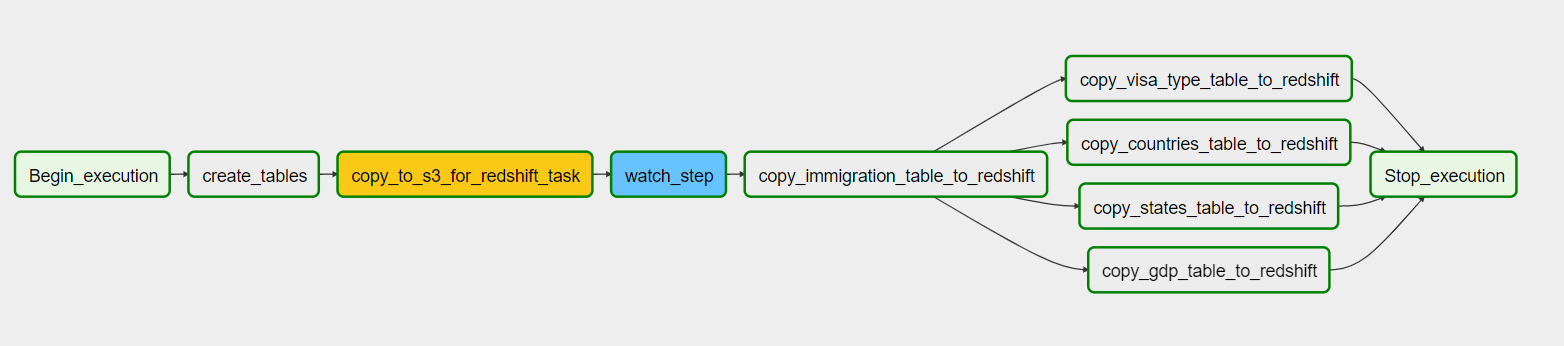
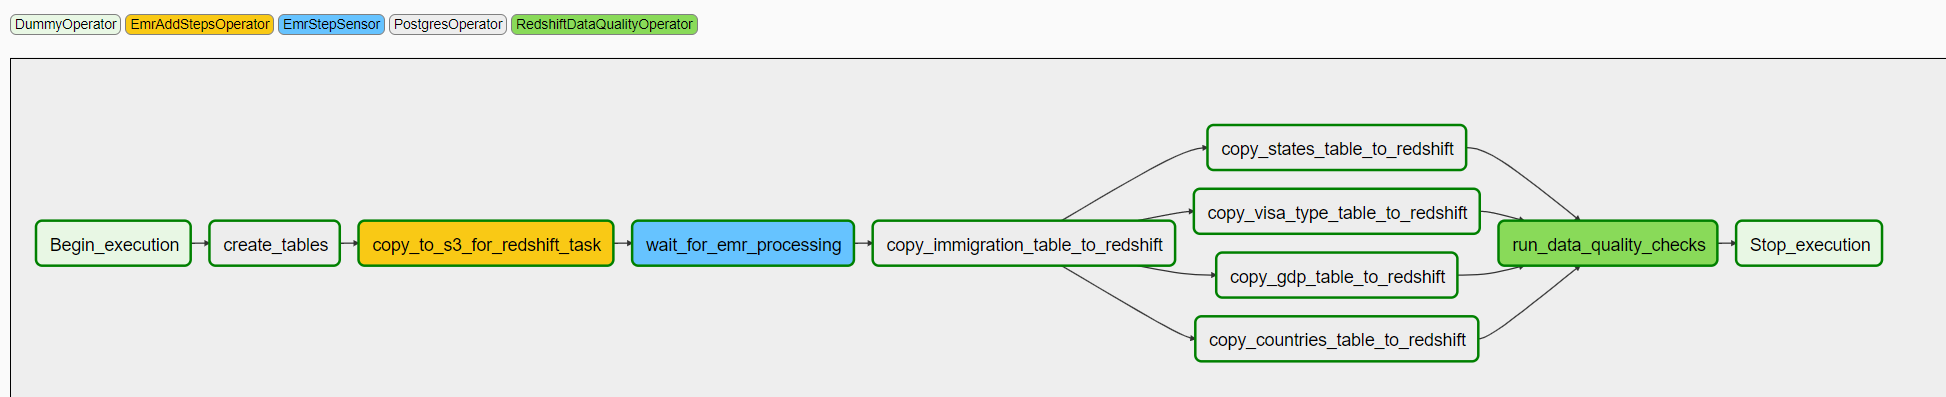
added redshift data quality checks

diff --git a/project_6_capstone/airflow/plugins/operators/redshift_data_quality.py b/project_6_capstone/airflow/plugins/operators/redshift_data_quality.py
@@ -1,0 +1,48 @@
+from airflow.hooks.postgres_hook import PostgresHook
+from airflow.models import BaseOperator
+from airflow.utils.decorators import apply_defaults
+
+class RedshiftDataQualityOperator(BaseOperator):
+
+    ui_color = '#89DA59'
+
+    @apply_defaults
+    def __init__(self,
+                 redshift_conn_id="redshift",
+                 test_cases=None,
+                 *args, **kwargs):
+        """
+        :test_cases: tuple of (sql statement, test function) where the test function expects to be passed a list of list
+                     of records that are the result of the SQL statement
+        """
+
+        super(RedshiftDataQualityOperator, self).__init__(*args, **kwargs)
+        self.redshift_conn_id = redshift_conn_id
+        self.test_cases = test_cases
+
+    def execute(self, context):
+        self.log.info('Executing the Data Quality checks')
+        
+        redshift = PostgresHook(self.redshift_conn_id)
+        
+        failures = 0
+        for test_case in self.test_cases:
+            statement, test_func = test_case
+            
+            self.log.info(f"Running Data Quality Check: {statement}")
+            actual_result = redshift.get_records(statement)
+            test_correct = test_func(actual_result)
+            
+            if not test_correct:
+                failures += 1
+                self.log.error(f"Data Quality Check failed.\n" 
+                               f"Statement Was: {statement}\n"
+                               f"Actual Result was {actual_result}")
+            else:
+                self.log.info("Check Passed")
+                
+        if failures > 0:
+            raise Exception("One or more data quality checks failed, please check the logs for more details")
+            
+        
+        

diff --git a/project_6_capstone/airflow/dags/copy_to_redshift.py b/project_6_capstone/airflow/dags/copy_to_redshift.py
@@ -6,10 +6,13 @@ from airflow.contrib.operators.emr_add_steps_operator import \
     EmrAddStepsOperator
 from airflow.contrib.sensors.emr_step_sensor import EmrStepSensor
 from airflow.models import Variable
+from airflow.operators.capstone_plugin import RedshiftDataQualityOperator
 from airflow.operators.dummy_operator import DummyOperator
 from airflow.operators.postgres_operator import PostgresOperator
 from capstone.constants import Connections, DAGVariables
+from capstone.redshift_utils import DataQualityChecks
 from capstone.spark_utils import get_emr_add_steps_spec
+
 
 SPARK_JOB_FILE = "jobs/run_copy_for_redshift.py"
 
@@ -129,15 +132,19 @@ copy_gdp_table = PostgresOperator(
 )
 
 
-end_operator = DummyOperator(task_id='Stop_execution', dag=dag)
+data_quality_task = RedshiftDataQualityOperator(
+    task_id='run_data_quality_checks',
+    dag=dag,
+    redshift_conn_id=Connections.REDSHIFT_CONNECTION_ID,
+    test_cases=DataQualityChecks.QUERIES
+)
 
-# start_operator >> create_tables >> [
-#     copy_states_table, copy_countries_table, copy_gdp_table, copy_visa_type_table
-# ] >> end_operator
+
+end_operator = DummyOperator(task_id='Stop_execution', dag=dag)
 
 
 start_operator >> create_tables >> \
     copy_to_s3_task >> copy_to_s3_task_checker >> \
     copy_immigration_table >> [
         copy_states_table, copy_countries_table, copy_gdp_table, copy_visa_type_table
-    ] >> end_operator
+    ] >> data_quality_task >> end_operator

diff --git a/project_6_capstone/airflow/capstone/redshift_utils.py b/project_6_capstone/airflow/capstone/redshift_utils.py
@@ -1,0 +1,21 @@
+
+class DataQualityChecks:
+    
+    QUERIES = [
+        
+        # Size Checks
+        ("SELECT COUNT(*) FROM country", lambda x: x[0][0] > 0),
+        ("SELECT COUNT(*) FROM state", lambda x: x[0][0] > 0),
+        ("SELECT COUNT(*) FROM visa_type", lambda x: x[0][0] > 0),
+        ("SELECT COUNT(*) FROM gdp", lambda x: x[0][0] > 0),
+        ("SELECT COUNT(*) FROM immigration", lambda x: x[0][0] > 0),
+        
+        # Validity Checks
+        ("SELECT MIN(gdp_value) FROM gdp", lambda x: x[0][0] >= 0), # GDP can't be negative
+        ("SELECT MIN(num_previous_stays) FROM immigration", lambda x: x[0][0] >= 0),
+        ("SELECT COUNT(*) FROM immigration WHERE arrival_date is NULL", lambda x: x[0][0] == 0),
+        ("SELECT DISTINCT day FROM immigration", lambda x: len(set([y[0] for y in x]).difference(set(range(1,32)))) == 0 ),
+        ("SELECT DISTINCT month FROM immigration", lambda x: len(set([y[0] for y in x]).difference(set(range(1,13)))) == 0 ),
+        ("SELECT MAX(year) FROM immigration", lambda x: x[0][0] < 2030 and x[0][0] > 1900),
+        
+    ]

diff --git a/project_6_capstone/airflow/dags/copy_to_cassandra.py b/project_6_capstone/airflow/dags/copy_to_cassandra.py
@@ -6,7 +6,7 @@ from airflow.contrib.operators.emr_add_steps_operator import \
     EmrAddStepsOperator
 from airflow.contrib.sensors.emr_step_sensor import EmrStepSensor
 from airflow.models import Variable
-from airflow.operators.cassandra_plugin import CassandraExecutorOperator
+from airflow.operators.capstone_plugin import CassandraExecutorOperator
 from airflow.operators.dummy_operator import DummyOperator
 from airflow.operators.postgres_operator import PostgresOperator
 from capstone.constants import Connections, DAGVariables

diff --git a/project_6_capstone/spark/src/jobs/run_copy_for_redshift.py b/project_6_capstone/spark/src/jobs/run_copy_for_redshift.py
@@ -57,7 +57,6 @@ def main(
         immigration_data
         .write
         .mode("overwrite")
-        .partitionBy("year", "month", "day")  # we partition by day so that if we want to run this every day, we don't overwrite the month partition
         .json(os.path.join(output_path, IMMIGRATION_TABLE))
     )
 

diff --git a/project_6_capstone/airflow/plugins/___init__.py b/project_6_capstone/airflow/plugins/___init__.py
@@ -6,8 +6,8 @@ import operators
 
 
 # Defining the plugin class
-class CassandraPlugin(AirflowPlugin):
-    name = "cassandra_plugin"
+class CapstonePlugin(AirflowPlugin):
+    name = "capstone_plugin"
     operators = [
         operators.CassandraExecutorOperator,
     ]

diff --git a/project_6_capstone/airflow/plugins/operators/__init__.py b/project_6_capstone/airflow/plugins/operators/__init__.py
@@ -1,5 +1,7 @@
 from operators.cassandra_executor import CassandraExecutorOperator
+from operators.redshift_data_quality import RedshiftDataQualityOperator
 
 __all__ = [
     'CassandraExecutorOperator',
+    'RedshiftDataQualityOperator',
 ]

diff --git a/project_6_capstone/README.md b/project_6_capstone/README.md
@@ -13,14 +13,14 @@ The purpose of this project is to create an infrastructure to enable the ad-hoc 
 
 ## Tools Used
 
-- Airflow: for orchestrating and running the data pipelines
-- Spark / EMR: for doing the heavy lifting of data transformation and copying
-- Redshift: Serves as a final place to save the cleaned data saved as a start schema so that ad-hoc analysis can be easily performed
-- S3: Serves as a staging ground between the different steps of the pipeline
-- Cassandra: Used as a backend DB for the web application. Allows incredibly fast retrieval of data for specific queries. 
-- Cloudformation: For automatic the provisioning and destruction of infrastructure
-- Sklearn: for training an ML model for overstay prediction
-- Flask: for creating a small web application for displaying statistics about the immigration data and allowing the user to interact with the ML model
+- **Airflow**: for orchestrating and running the data pipelines
+- **Spark / EMR**: for doing the heavy lifting of data transformation and copying
+- **Redshift**: Serves as a final place to save the cleaned data saved as a start schema so that ad-hoc analysis can be easily performed
+- **S3**: Serves as a staging ground between the different steps of the pipeline
+- **Cassandra**: Used as a backend DB for the web application. Allows incredibly fast retrieval of data for specific queries. 
+- **Cloudformation**: For automatic the provisioning and destruction of infrastructure
+- **Sklearn**: for training an ML model for overstay prediction
+- **Flask**: for creating a small web application for displaying statistics about the immigration data and allowing the user to interact with the ML model
 
 ## Data Flow
 
@@ -116,8 +116,8 @@ Fact Table
 - **gender** (VARCHAR): passenger's gender
 - **visa_type** (VARCHAR): type of visa the user was admitted with
 - **num_previous_stays** (INT): number of times the passenger arrived and departed
-- **unrestricted_stay** (BOOL): flag for whether the passenger has an unrestricted stay due to his visa type. Check [./notebooks/Data Exploration.ipynb](./notebooks/Data Exploration.ipynb) for details on how this field was derived
-- **is_overstay** (BOOL): flag whether the passenger overstayed his visa. This is the target field for the ML model. Check [./notebooks/Data Exploration.ipynb](./notebooks/Data Exploration.ipynb) for details on how this field was derived
+- **unrestricted_stay** (BOOL): flag for whether the passenger has an unrestricted stay due to his visa type. Check [./notebooks/Data Exploration.ipynb](./notebooks/Data%20Exploration.ipynb) for details on how this field was derived
+- **is_overstay** (BOOL): flag whether the passenger overstayed his visa. This is the target field for the ML model. Check [./notebooks/Data Exploration.ipynb](./notebooks/Data%20Exploration.ipynb) for details on how this field was derived
 - **year** (INT): year component of the arrival date
 - **month** (INT): month component of the arrival date
 - **day** (INT): day component of the arrival date
@@ -195,6 +195,10 @@ Dimension Table
 - **year** (INT): year that the GDP was recorded. We only keep the latest year for each country
 - **gdp_value** (FLOAT): value for the GDP in dollars
 
+
+## Data Quality Checks
+
+After the load to Redshift, we conduct some [size and validity checks](./airflow/plugins/operators/redshift_data_quality.py) on the [redshift](./airflow/dags/copy_to_redshift.py) data. We also have primary key constraints on all the [tables](./airflow/sql/create_tables.sql).
 
 ## Project Discussion
 

diff --git a/project_6_capstone/docs/installation_guide.md b/project_6_capstone/docs/installation_guide.md
@@ -1,4 +1,4 @@
-# Installation
+# Installation and Configuration Guide
 
 ## Configuration
 
@@ -128,7 +128,7 @@ These steps will help you to setup the AWS insfrastructure where all the pipelin
     airflow scheduler -D & airflow webserver -D
     ```
 
-1. Start tunnel for Livy
+1. Start tunnel for Livy (only needed if you want to run the `processing_dag_emr` DAG)
     ```
     # install the SSH client if needed
     sudo apt-get install -y openssh-client

diff --git a/project_6_capstone/infra/aws/README.md b/project_6_capstone/infra/aws/README.md
@@ -1,0 +1,1 @@
+Contains cloudformation templates for provisioning the project infrastructure
